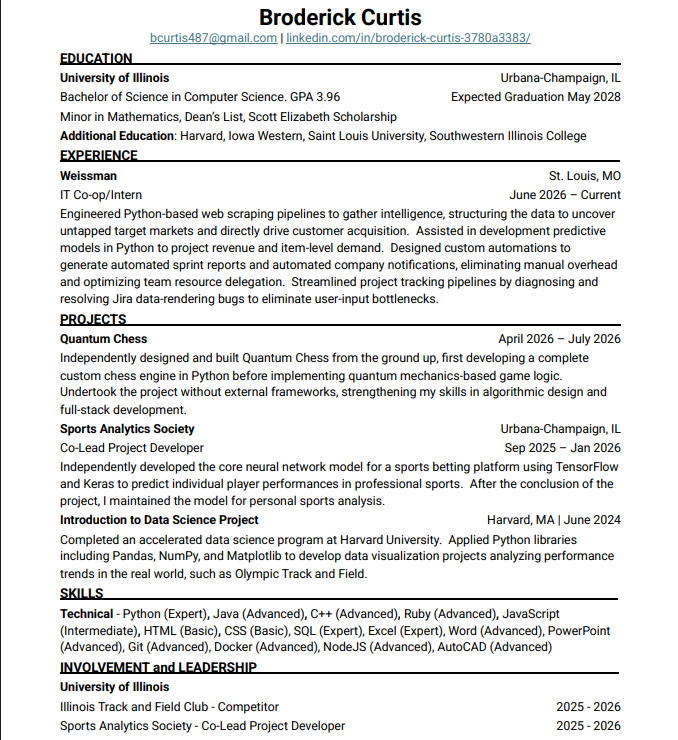
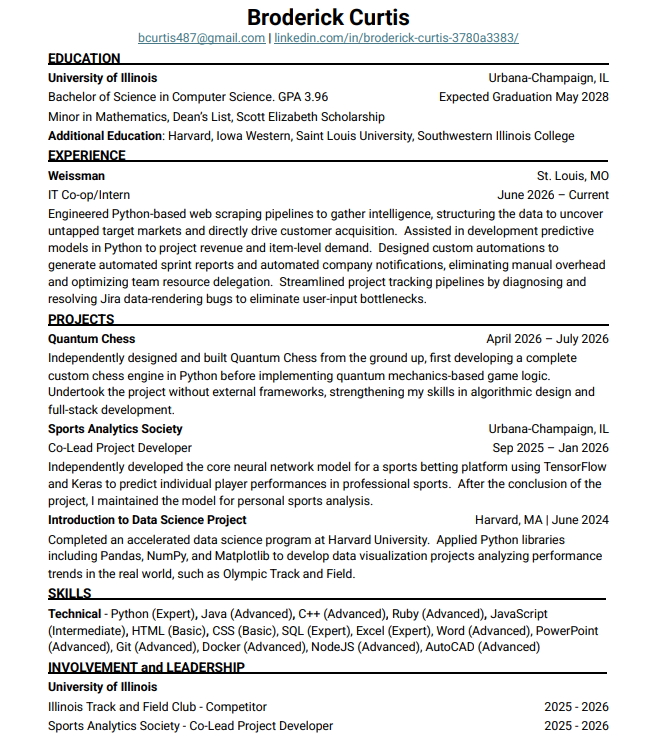
Added math minor to description. Cropped resume.  Added color to titlebar

Changed region(s): [[0.0601, 0.0622, 0.9309, 0.9946], [0.2102, 0.0, 0.7808, 0.0622], [0.8108, 0.9324, 0.9309, 0.9946]]

diff --git a/index.html b/index.html
@@ -31,7 +31,7 @@
             </div>
             <div class="about-text">
                 <p>I am a St. Louis Native that has been coding since I was 12.  I have always found ways to hone my technical abilities and show my love for problem solving through my personal projects and consistentaly coding every day.  And this summer I was the sole IT intern at Weissman (a global leader in B2B dancewear).</p>
-                <p>I am currently pursuing a Bachelor of Science in Computer Science at the University of Illinois Urbana-Champaign.  I will graduate in May of 2028, finishing my degree in only 6 total semesters.  I have a 3.96 PGA, have been named to the Dean's List every semester of attendance, and I am a recipient of the Scott Elizabeth Scholarship</p>
+                <p>I am currently pursuing a Bachelor of Science in Computer Science and a Minor in Mathematics at the University of Illinois Urbana-Champaign.  I will graduate in May of 2028, finishing my degree in only 6 total semesters.  I have a 3.96 PGA, have been named to the Dean's List every semester of attendance, and I am a recipient of the Scott Elizabeth Scholarship</p>
                 <p>In high school I scored a 1530 SAT, 35 SAT, and took 5 AP classes.  I was the sole varsity captain of the Math Team, Track & Field, and Cross Country.  I recieved competed at states in Math Team, Scholar Bowl, and Academic Challenge, as well as finishing 6th place in the state in the Computer Science competition of Academic Challenge.</p>
 
                 <!-- NEW: Education Section -->
@@ -43,7 +43,7 @@
                         <img src="assets/Illinois.png" alt="School Logo" class="info-logo">
                         <div class="info-details">
                             <h4>University of Illinois Urbana-Champaign</h4>
-                            <p>Bachelor of Science in Computer Science</p>
+                            <p>Bachelor of Science in Computer Science with a Minor in Mathematics</p>
                             <h6>GPA: 3.96</h6>
                             <p class="date">August 2025 - Present</p>
                             <h6>Relevant Coursework</h6>

diff --git a/style.css b/style.css
@@ -23,12 +23,12 @@ body {
 .navbar {
     position: sticky;
     top: 0;
-    background-color: white;
+    background-color: rgba(200,200,250,0.9);
     display: flex;
     justify-content: space-between;
     align-items: center;
     padding: 20px 50px;
-    box-shadow: 0 2px 5px rgba(0,0,0,0.05);
+    box-shadow: 0 5px 10px rgba(0,0,0,0.15);
     z-index: 1000;
 }
 
